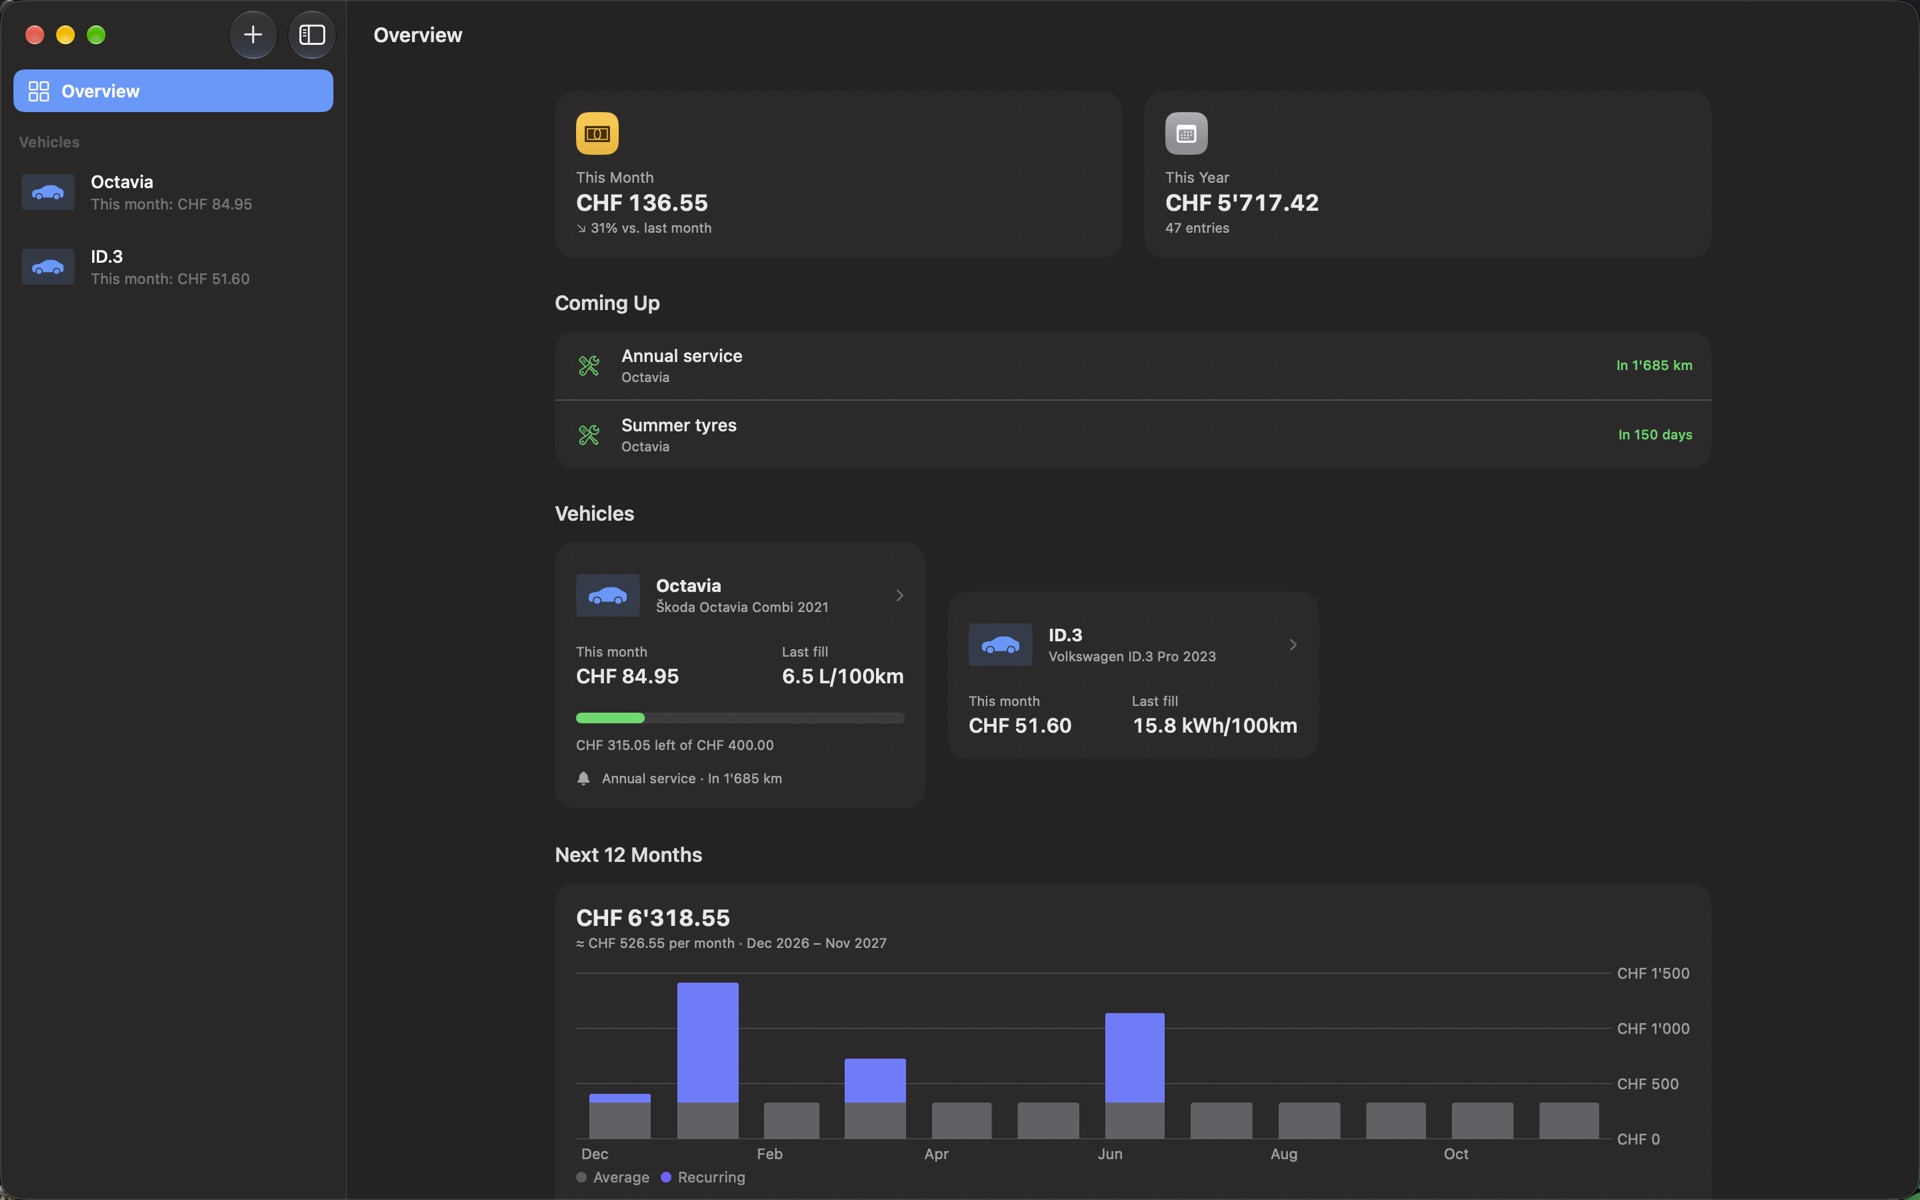
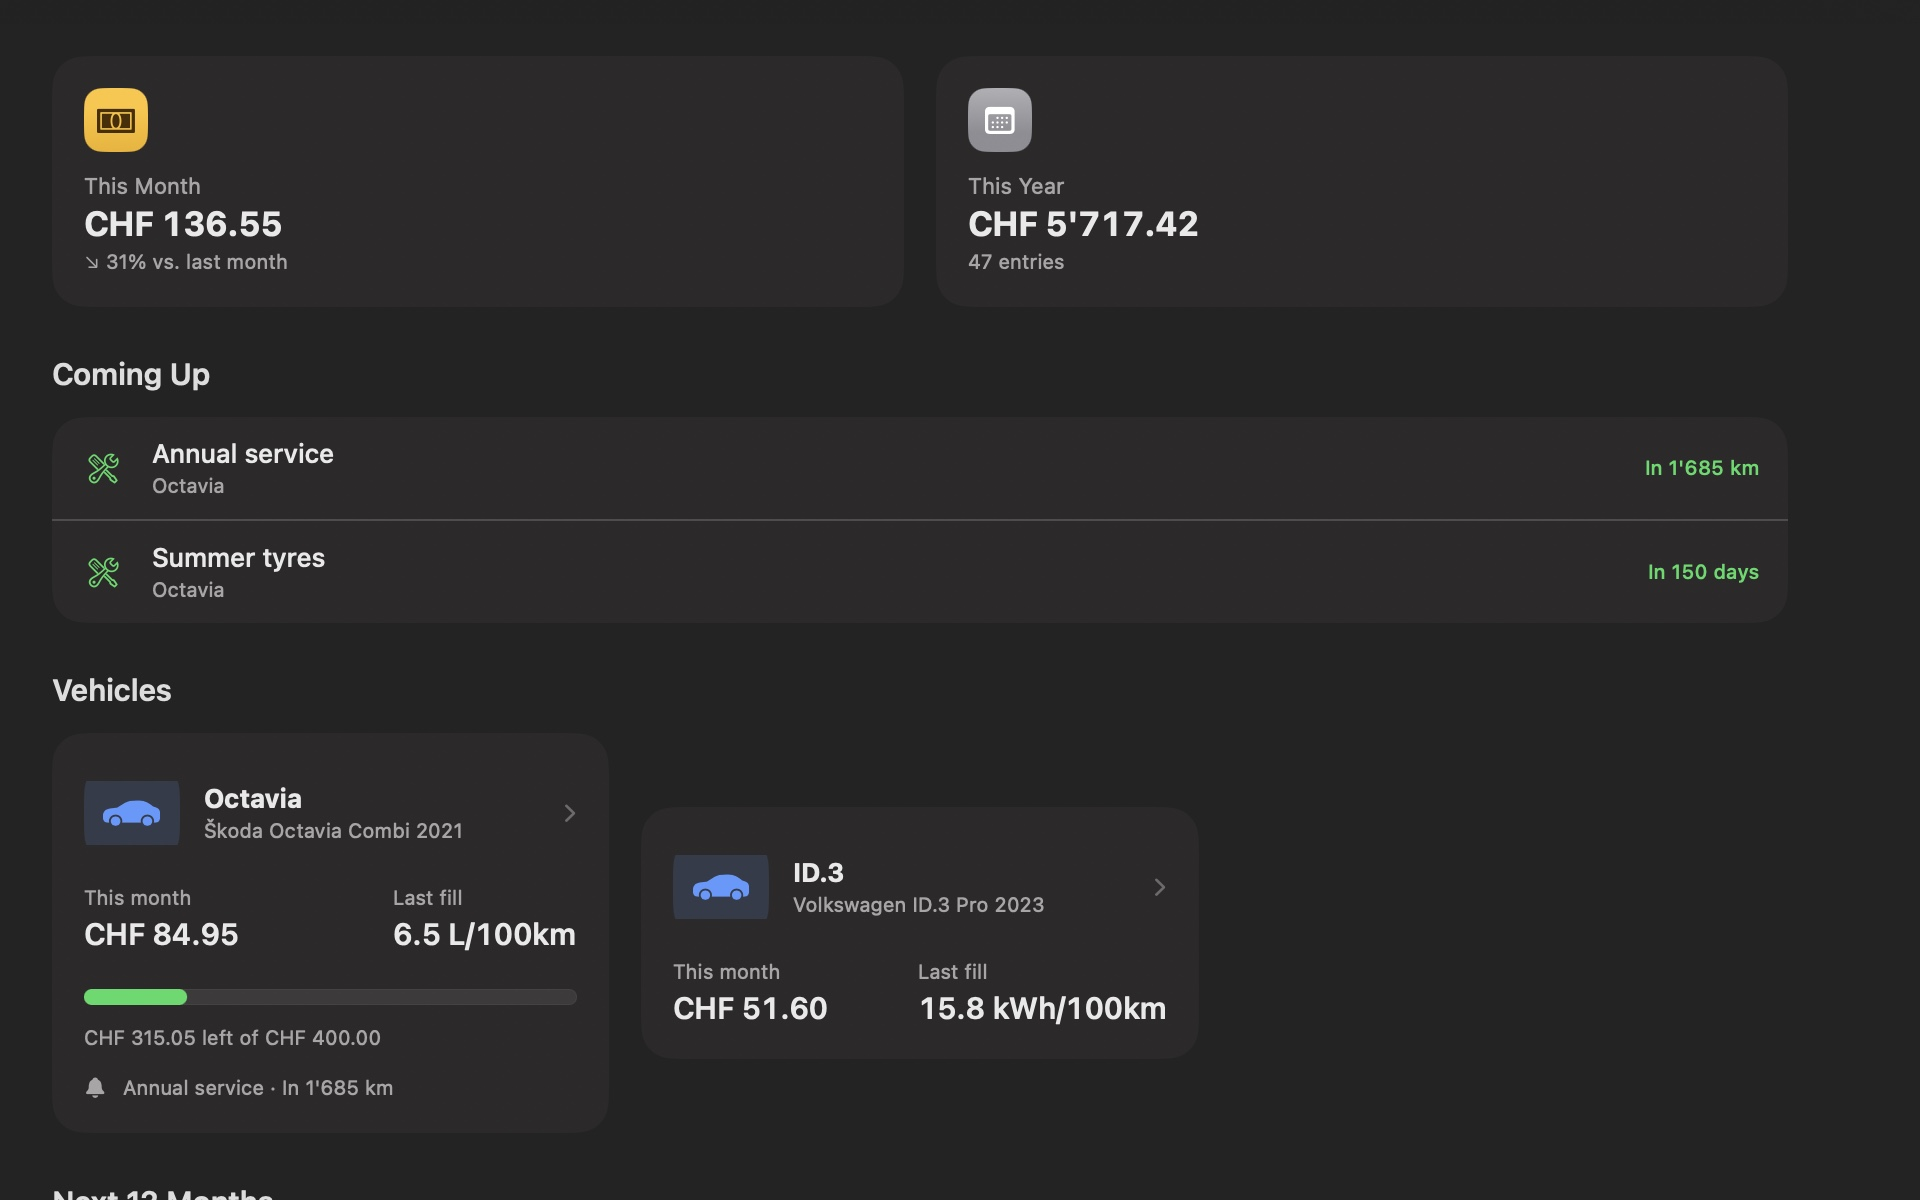
Sharper project screenshots, greeting and NVIDIA
Recrop screenshots from the full-resolution originals so the UI shows at
about twice the scale, and serve 960/1600px WebP at q90. Greeting is now
"Hi, I'm Ben." and the headline and About page say NVIDIA. Pin Hugo
0.170.1 in .hugo-version.

diff --git a/layouts/partials/project_card.html b/layouts/partials/project_card.html
@@ -4,13 +4,13 @@
 <article class="project-card">
   {{- with $p.image }}
   {{- with $.bundle.Resources.GetMatch . }}
-  {{- $sm := .Fill "800x500 top webp q80" }}
-  {{- $lg := .Fill "1280x800 top webp q80" }}
+  {{- $sm := .Fill "960x600 top webp q90" }}
+  {{- $lg := .Fill "1600x1000 top webp q90" }}
   <div class="project-shot">
     {{- if $primary }}<a href="{{ $primary.url }}" target="_blank" rel="noopener" tabindex="-1" aria-hidden="true">{{ end }}
-    <img src="{{ $lg.RelPermalink }}" srcset="{{ $sm.RelPermalink }} 800w, {{ $lg.RelPermalink }} 1280w"
-      sizes="(max-width: 720px) 100vw, 520px" width="{{ $lg.Width }}" height="{{ $lg.Height }}"
-      alt="Screenshot of {{ $p.name }}" loading="lazy" decoding="async">
+    <img src="{{ $lg.RelPermalink }}" srcset="{{ $sm.RelPermalink }} 960w, {{ $lg.RelPermalink }} 1600w"
+      sizes="(max-width: 767px) 100vw, 640px" width="{{ $lg.Width }}" height="{{ $lg.Height }}"
+      alt="Screenshot of {{ $p.name }}" loading="lazy" decoding="async" class="nozoom">
     {{- if $primary }}</a>{{ end }}
     {{- with $p.note }}<span class="project-note">{{ . }}</span>{{ end }}
   </div>

diff --git a/content/about/index.md b/content/about/index.md
@@ -4,7 +4,7 @@ hideLastModified: true
 showInMenu: true
 ---
 
-I like mountains, photography, and travelling. For a living I am doing "computer things". I am in the sphere between software development and operations and currently work as a founding engineer at [Poolside](https://poolside.ai) since February 2024. On the side I build apps and tools; you can find them on the [projects page](/projects/).
+I like mountains, photography, and travelling. For a living I am doing "computer things". I am in the sphere between software development and operations and currently work at [NVIDIA](https://www.nvidia.com), which I joined as part of the deal between Poolside and NVIDIA. Before that I was a founding engineer at [Poolside](https://poolside.ai), starting in February 2024. On the side I build apps and tools; you can find them on the [projects page](/projects/).
 
 The interactions between teams and departments in work environments fascinate me. The book ["The Phoenix Project"]({{< ref "phoenix_project" >}}) opened my eyes and had a tremendous impact on me and my career. Check out my LinkedIn page for more details.
 
